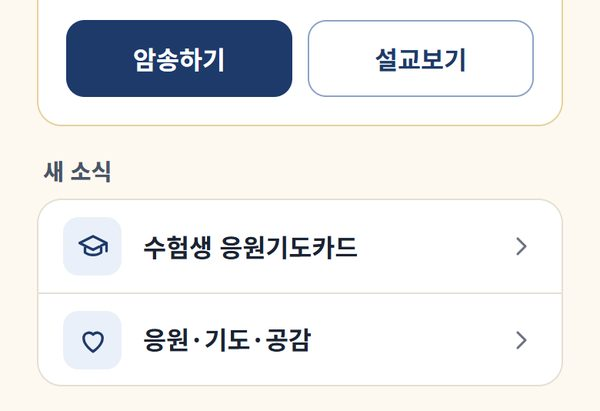
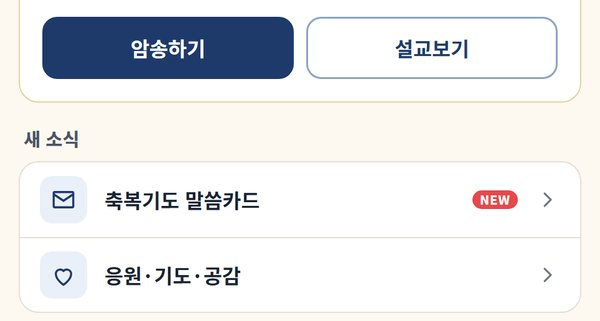
feat(카드): 「💌 축복기도 말씀카드」로 이름 · 첫 화면 「새 소식」 맨 위(🎓 자리)로 옮김 · 🎓 수험생 응원기도카드 단추 걷음(수험생 카드는 💌 판 카드 고르기에 12/11 까지 맨 앞) · 설명서 두 걸음 · 보내는 법 쪽 1번 걸음과 사진 · 시험 · 문서 · v3.731(친구 2026-11-10)

diff --git a/app.js b/app.js
@@ -6,7 +6,7 @@
 
 // 이 파일의 빌드 번호 — index.html의 app.js?v= 와 반드시 같아야 한다.
 // (tools/bump.py가 둘을 함께 올린다)
-const APP_BUILD = "20261109a";
+const APP_BUILD = "20261110a";
 
 // 배포 직후 CDN이 아직 옛 app.js를 내보내면, 브라우저는 그 옛 내용을 '새 주소'
 // 아래 캐시해 버린다. 주소가 다시 바뀌기 전까지(최대 10분) 옛 화면이 남는 이유다.
@@ -944,7 +944,7 @@ const HA_GROUPS = [
   { title: "말씀 묵상", ids: ["open-sermon-chat", "open-meditation"] },
   { title: "내 기록", ids: ["open-event-list", "open-album", "open-ranking"] },
   { title: "교회 생활", ids: ["open-ministry", "open-ministry-history", "open-edu", "open-duty"] },
-  { title: "함께", ids: ["open-board", "open-prayer", "open-cards", "open-pilsa"] },   // 💌 말씀카드는 가정 축복 기도문 바로 아래(2026-11-07 · 문 cardMoreVisible)
+  { title: "함께", ids: ["open-board", "open-prayer", "open-pilsa"] },   // 💌 축복기도 말씀카드는 2026-11-10 「새 소식」 맨 위로 옮겼다(HA_NEWS · 친구)
   // 📚 암송 과정 — 「함께」 바로 아래(친구 2026-10-29 · 10-13 에는 「함께」 위였다) · 외우는 것 넷을 이 차례로(쉴만한 물가·내 안에 거하는 말씀·퀴즈는 「함께」에서 옮김).
   //   단추마다 문이 따로라(psalmVisible · passagesVisible · naviVisible) 닫힌 단추는 줄째 빠진다 · 설명서의 자리 말(MANUAL)도 이 묶음을 가리킨다.
   { title: "암송 과정", ids: ["open-psalm", "open-passages", "open-navi", "open-quiz"] },
@@ -960,9 +960,9 @@ function boardTopOn(raw) {
   if (!p) return false;
   return p.y + "-" + String(p.m).padStart(2, "0") + "-" + String(p.d).padStart(2, "0") <= BOARD_TOP_UNTIL;
 }
-// 「새 소식」 맨 위 줄(2026-11-07 친구) — 🎓 수험생 응원기도카드(단추는 문 · 기간 안에만 그린다 — cardSuneungOn) · 그 아래 한 주간 💬 게시판.
-//   단추가 하나도 없으면 묶음째 없다(applyHomeA 가 단추 없는 묶음을 건너뛴다) — 11/13 부터는 카드 한 줄뿐 · 12/12 부터(또는 문 밖)는 묶음째 없다.
-const HA_NEWS = ["open-card-suneung"];
+// 「새 소식」 맨 위 줄 — 💌 축복기도 말씀카드(2026-11-10 친구 「수험생 응원기도카드 자리로 · 수험생 단추는 없애기」 · 문 cardMoreVisible) · 그 아래 한 주간 💬 게시판.
+//   🎓 수험생 카드는 따로 단추 없이 💌 판 맨 위 카드 고르기에서 고른다(12/11 까지 맨 앞 · cardSuneungOn). 단추가 하나도 없으면 묶음째 없다(applyHomeA 가 단추 없는 묶음을 건너뛴다).
+const HA_NEWS = ["open-cards"];
 function haGroupsFor(raw) {
   if (!boardTopOn(raw)) return [{ title: "새 소식", ids: HA_NEWS }].concat(HA_GROUPS);
   return [{ title: "새 소식", ids: HA_NEWS.concat(["open-board"]) }]
@@ -971,7 +971,7 @@ function haGroupsFor(raw) {
 const HA_ROW_ICON = {
   "open-sermon-chat": "message", "open-meditation": "leaf", "open-navi": "book", "open-event-list": "medal", "open-album": "album", "open-ranking": "trophy",
   "open-ministry": "users", "open-ministry-history": "folder", "open-edu": "cap", "open-duty": "calendar",
-  "open-card-suneung": "cap", "open-board": "heart", "open-prayer": "house", "open-cards": "mail", "open-psalm": "drop", "open-passages": "scroll", "open-pilsa": "pen", "open-quiz": "target",
+  "open-board": "heart", "open-prayer": "house", "open-cards": "mail", "open-psalm": "drop", "open-passages": "scroll", "open-pilsa": "pen", "open-quiz": "target",
   "open-praise": "music", "open-sermon-archive": "tv", "open-youtube": "play",
 };
 const HA_TOOL_ICON = { "toggle-ref-first": "bookmark", "toggle-card-input": "keyboard", "open-help-summary": "help", "open-alarm": "bell", "open-settings": "gear" };
@@ -3850,13 +3850,12 @@ function renderSummary() {
     ${naviVisible() ? `<div class="grp-title">암송 과정</div>
     <button class="summary-help" id="open-navi">📚 주제별 성경암송${newBadge("navi")}</button>` : ""}
     <div class="grp-title">함께</div>
-    ${/* 🎓 수험생 응원기도카드(2026-11-07) — 문(cardShareVisible · 🧪 시험 참여자 먼저) · 기간(CARD_SUNEUNG_UNTIL) 안에만. A안은 「새 소식」 맨 위로 옮겨 담는다(HA_NEWS) */""}
-    ${cardSuneungOn() ? `<button class="summary-help" id="open-card-suneung">🎓 수험생 응원기도카드</button>` : ""}
+    ${/* 💌 축복기도 말씀카드(2026-11-07 · 11-10 친구 — 🎓 수험생 응원기도카드 자리로 옮기고 🎓 단추는 걷음) — 문(cardMoreVisible · 🧪 시험 참여자 먼저) 안에만.
+          판은 js/pray-share.js openCardPick(맨 위에서 카드 고르기 · 🎓 수험생은 12/11 까지 맨 앞). A안은 「새 소식」 맨 위로 옮겨 담는다(HA_NEWS) */""}
+    ${cardMoreVisible() ? `<button class="summary-help" id="open-cards">💌 축복기도 말씀카드${newBadge("cards")}</button>` : ""}
     <button class="summary-help" id="open-board">💬 응원·기도·공감</button>
     ${/* 2026-09-25 순서 바꿈(친구 요청) — 가정 축복 기도문이 쉴만한 물가보다 위. */""}
     <button class="summary-help" id="open-prayer">🙏 가정 축복 기도문${newBadge("prayer")}</button>
-    ${/* 💌 말씀카드(2026-11-07 친구 「늘 쓰는 축하, 위로만 먼저」) — 문(cardMoreVisible · 🧪 시험 참여자 먼저) 안에만. 판은 js/pray-share.js openCardPick(맨 위에서 카드 고르기) */""}
-    ${cardMoreVisible() ? `<button class="summary-help" id="open-cards">💌 기도 말씀카드${newBadge("cards")}</button>` : ""}
     ${psalmVisible() ? `<button class="summary-help" id="open-psalm">🐑 쉴만한 물가${newBadge("psalm")}</button>` : ""}
     ${/* ⚠ 2026-09-23 첫 화면 단추를 뺀다(성도님 결정) — 「🎵 찬양 · 곡명 ↗」은
           **매일 묵상 창 맨 아래 줄**에만 둔다. 게이트(app_config.songPublic)는 켜진 채라
@@ -3907,13 +3906,7 @@ function renderSummary() {
   renderStoreNudge();   // 웹으로 오신 분께 스토어 앱 안내 한 줄(2026-10-09)
   loadEventState();     // 서버에서 설정·응모여부 갱신 후 다시 표시
   document.getElementById("open-board").addEventListener("click", renderBoard);
-  // 🎓 수험생 응원기도카드 — 판은 누를 때 받는다(js/pray-share.js) · 두 번 눌러도 판은 하나(openCardShare 가 열린 판을 그대로 둔다)
-  { const b = document.getElementById("open-card-suneung");   // 문 · 기간 밖에는 없다
-    if (b) b.addEventListener("click", () => withLazyJs("prayShare", () => {
-      if (typeof openCardShare === "function") openCardShare("suneung");
-      else appAlert(typeof openPrayShare === "function" ? "앱이 새 판으로 바뀌었어요. 앱을 껐다가 다시 열어 주세요." : "보내기 화면을 아직 못 불러왔어요. 잠시 뒤 다시 눌러 주세요.");
-    })); }
-  // 💌 말씀카드 — 판은 누를 때 받는다(js/pray-share.js) · 맨 위에서 카드를 고른다(openCardPick · 수험생 카드는 기간 안에만 맨 앞) · 두 번 눌러도 판은 하나
+  // 💌 축복기도 말씀카드 — 판은 누를 때 받는다(js/pray-share.js) · 맨 위에서 카드를 고른다(openCardPick · 수험생 카드는 기간 안에만 맨 앞) · 두 번 눌러도 판은 하나
   { const b = document.getElementById("open-cards");   // 문(cardMoreVisible) 밖에는 없다
     if (b) b.addEventListener("click", () => { markFeatSeen("cards"); scRemoveBadge("open-cards"); withLazyJs("prayShare", () => {
       if (typeof openCardPick === "function") openCardPick(cardSuneungOn());
@@ -4172,13 +4165,13 @@ function medShareVisible() { return MED_SHARE_OPEN || (typeof ministryTesterCach
 const VERSE_SHARE_OPEN = true;   // 2026-11-06 모두에게 열었다(친구 「올려주세요」 — 게시판 공지 「가족·목장 식구를 초대해 주세요」와 함께 · 설명서 말씀 암송 장에 한 줄) · 닫으려면 false 한 줄 + bump
 function verseShareVisible() { return VERSE_SHARE_OPEN || (typeof ministryTesterCached === "function" && ministryTesterCached()); }
 // 🎓 수험생 응원기도카드(2026-11-07 친구 · 기념일 말씀카드 첫 개시 — 수능 11/19 · 성적 통지 12/11 · 판은 js/pray-share.js openCardShare) — 먼저 🧪 시험 참여자에게만.
-//   첫 화면 「새 소식」 맨 위 한 줄(haGroupsFor · HA_NEWS) · CARD_SUNEUNG_UNTIL(KST · 그날까지)이 지나면 배포 없이 저절로 없어진다.
+//   2026-11-10 친구 — 첫 화면 🎓 단추는 걷었다(💌 축복기도 말씀카드가 그 자리로) · 이제 💌 판 맨 위 카드 고르기에서만(cardSuneungOn 일 때 맨 앞) · CARD_SUNEUNG_UNTIL(KST · 그날까지)이 지나면 배포 없이 저절로 없어진다.
 //   ⚠ 새 이름은 옛 파일에 없던 것으로 — 다른 파일에 같은 이름의 const 가 있으면 배포 직후 CDN 옛 파일과 「이미 선언됨」으로 깨진다(prayer-book.md)
 const CARD_SHARE_OPEN = true;   // 2026-11-07 모두에게 열었다(친구 「모두 열어 주세요」 — 게시판 공지와 함께 · 설명서 「가정 축복 기도문」 장에 한 걸음) · 닫으려면 false 한 줄 + bump
 function cardShareVisible() { return CARD_SHARE_OPEN || (typeof ministryTesterCached === "function" && ministryTesterCached()); }
 const CARD_SUNEUNG_UNTIL = "2026-12-11";
 function cardSuneungOn() { return cardShareVisible() && todayYmd() <= CARD_SUNEUNG_UNTIL; }
-// 💌 말씀카드(2026-11-07 친구 「늘 쓰는 축하, 위로만 먼저」 — 생일 · 결혼기념일 · 새 출발 · 위로 · 병문안 · 날짜를 타지 않는다) — 첫 화면 「함께」 한 줄(가정 축복 기도문 아래) ·
+// 💌 축복기도 말씀카드(2026-11-07 친구 「늘 쓰는 축하, 위로만 먼저」 — 생일 · 결혼기념일 · 새 출발 · 위로 · 병문안 · 날짜를 타지 않는다) — 첫 화면 「새 소식」 맨 위 한 줄(2026-11-10 · 처음엔 「함께」 가정 축복 기도문 아래) ·
 //   판 맨 위에서 카드를 고른다(js/pray-share.js openCardPick · 🎓 수험생 카드는 cardSuneungOn() 일 때만 맨 앞) · 설명서 「가정 축복 기도문」 장에 한 걸음.
 //   ⚠ 이름은 옛 파일에 없던 것(CDN 옛 파일과 「이미 선언됨」 — prayer-book.md) · 모두에게 열 때는 true 한 줄 + bump(게시판 공지 = 문 열기).
 const CARD_MORE_OPEN = true;   // 2026-11-08 모두에게 열었다(친구 「모두 오픈해주세요」 · 11-07 은 🧪 시험 참여자 먼저) · 닫으려면 false 한 줄 + bump
@@ -10710,10 +10703,10 @@ const MANUAL = [
       "<b>🔊 들려주기</b>를 누르면 소리 내어 읽어 드려요.",
       "가족을 위해 기도하시려면 이름이 적힌 <b>🙍</b> 단추를 눌러 이름을 바꾸세요.",
       "기도문 아래 금색 <b>카톡·문자로 보내기</b>를 누르면, 이름을 넣은 기도문을 <b>그림 한 장</b>으로 카카오톡이나 문자로 보낼 수 있어요.",
-      // 🎓 수험생 응원기도카드가 보이는 동안만(12/11 까지 · cardSuneungOn — 지난 메뉴를 가리키지 않게)
-      ...(cardSuneungOn() ? ["수능을 앞둔 학생에게는 첫 화면 <b>「새 소식」</b> 맨 위 <b>🎓 수험생 응원기도카드</b>로, 이름을 넣은 응원 기도를 <b>그림 한 장</b>으로 보낼 수 있어요(12월 11일까지)."] : []),
-      // 💌 말씀카드가 보이는 동안만(cardMoreVisible — 🧪 시험 참여자 먼저 · 모두에게 열면 그대로)
-      ...(cardMoreVisible() ? ["첫 화면 <b>「함께」</b>의 <b>💌 기도 말씀카드</b>에서 생일 · 결혼기념일 · 새 출발 · 위로 · 병문안 카드를 이름을 넣어 <b>그림 한 장</b>으로 보낼 수 있어요."] : []),
+      // 💌 축복기도 말씀카드가 보이는 동안만(cardMoreVisible — 🧪 시험 참여자 먼저 · 모두에게 열면 그대로) · 자리는 첫 화면 꼴로(A안 「새 소식」 맨 위 · 옛 첫 화면 「함께」 맨 위)
+      ...(cardMoreVisible() ? [(HOME_LAYOUT === "a" ? "첫 화면 <b>「새 소식」</b> 맨 위" : "첫 화면 <b>「함께」</b> 맨 위") + "의 <b>💌 축복기도 말씀카드</b>에서 생일 · 결혼기념일 · 새 출발 · 위로 · 병문안 카드를 이름을 넣어 <b>그림 한 장</b>으로 보낼 수 있어요."] : []),
+      // 🎓 수험생 카드는 💌 판 안에서만(12/11 까지 · cardSuneungOn — 지난 카드를 가리키지 않게 · 💌 가 닫혀 있으면 들어갈 길이 없다)
+      ...(cardMoreVisible() && cardSuneungOn() ? ["수능을 앞둔 학생에게는 <b>💌 축복기도 말씀카드</b> 맨 위 카드 고르기의 <b>🎓 수험생</b>으로, 이름을 넣은 응원 기도를 <b>그림 한 장</b>으로 보낼 수 있어요(12월 11일까지)."] : []),
       "아래 <b>주제로 찾기</b>에서 다른 기도문도 고를 수 있어요.",
       ];
     },

diff --git a/index.html b/index.html
@@ -69,7 +69,7 @@
   <link rel="preconnect" href="https://fonts.gstatic.com" crossorigin />
   <link href="https://fonts.googleapis.com/css2?family=Gowun+Batang:wght@400;700&family=Lora:wght@400;600;700&family=Nanum+Myeongjo:wght@400;700;800&family=Noto+Sans+KR:wght@400;500;700;800&display=swap" rel="stylesheet" media="print" onload="this.media='all'" />
   <noscript><link href="https://fonts.googleapis.com/css2?family=Gowun+Batang:wght@400;700&family=Lora:wght@400;600;700&family=Nanum+Myeongjo:wght@400;700;800&family=Noto+Sans+KR:wght@400;500;700;800&display=swap" rel="stylesheet" /></noscript>
-  <link rel="stylesheet" href="style.css?v=20261109a" />
+  <link rel="stylesheet" href="style.css?v=20261110a" />
 </head>
 <body>
   <!-- 앱 시작 스플래시 화면 -->
@@ -78,7 +78,7 @@
       <img id="splash-logo" src="img/logo-gocheok.png" alt="고척교회" />
       <div class="splash-title">오직 성경, 말씀이 답이다!</div>
       <div class="splash-sub">주의 말씀은 내 발에 등이요<br>내 길에 빛이니이다</div>
-      <div class="splash-ver">v3.730</div>
+      <div class="splash-ver">v3.731</div>
       <img class="splash-denom" src="logo3.png?v=20260702y" alt="대한예수교장로회총회" onerror="this.style.display='none'" />
     </div>
   </div>
@@ -109,11 +109,11 @@
     <p style="text-align:center;padding:40px">불러오는 중...</p>
   </main>
 
-  <script src="js/config.js?v=20261109a"></script>
-  <script src="js/api.js?v=20261109a"></script>
-  <script src="js/push.js?v=20261109a"></script>
-  <script src="js/psalm.js?v=20261109a"></script>
-  <script src="js/events.js?v=20261109a"></script>
-  <script src="app.js?v=20261109a"></script>
+  <script src="js/config.js?v=20261110a"></script>
+  <script src="js/api.js?v=20261110a"></script>
+  <script src="js/push.js?v=20261110a"></script>
+  <script src="js/psalm.js?v=20261110a"></script>
+  <script src="js/events.js?v=20261110a"></script>
+  <script src="app.js?v=20261110a"></script>
 </body>
 </html>

diff --git a/admin.html b/admin.html
@@ -74,7 +74,7 @@
     // 교회 어드민으로 옮긴 관리 화면은 여기서 걷었다 — 성도 정보(2026-10-09) · 이벤트 · 찬양 아카이브 · 내게 주시는 말씀 기록 · 사역관리(2026-10-13).
     //   남은 것(성경암송 관리 · 설교·찬양 관리)은 설교 실전 확인 뒤 마지막 걷기에(docs/notes/admin-migration.md).
     //   ⚠ 교회 어드민(admin.onlybible.kr)으로 가는 타일은 두지 않는다(2026-10-13 친구 — 그곳은 주소로 직접 들어간다).
-    { ic:"📖", title:"성경암송 관리", desc:"통계 · 알림발송 · 주간리포트 · 게시판", href:"admin-stats.html?v=20261109a" },
+    { ic:"📖", title:"성경암송 관리", desc:"통계 · 알림발송 · 주간리포트 · 게시판", href:"admin-stats.html?v=20261110a" },
     { ic:"⛪", title:"설교·찬양 관리", desc:"설교 올리기(두 단계) · 설교 목록 · 매일 묵상 · 담당자 — 담당자도 이 주소로", href:"admin-sermon.html" },
     { ic:"🎬", title:"환영 인트로 미리보기", desc:"첫 방문 인트로 4장 — 성도님 화면엔 영향 없음", href:"index.html?preview=intro" },
     { ic:"🙏", title:"축복 인사 미리보기", desc:"첫 로그인 축복 카드 — 로그인 상태에서 확인", href:"index.html?preview=blessing" },

diff --git a/guide/suneung-card/index.html b/guide/suneung-card/index.html
@@ -41,8 +41,8 @@ h2{font-size:1.15rem;font-weight:800;color:var(--navy);margin:0 0 8px}
   </header>
 
   <div class="card">
-    <div class="step"><span class="no">1</span><p>첫 화면 「이번 주 말씀」 아래 <b>「새 소식」</b> 맨 위의 <b>🎓 수험생 응원기도카드</b>를 눌러요.</p></div>
-    <div class="shot"><img src="home.jpg" alt="첫 화면 「새 소식」 묶음 맨 위의 수험생 응원기도카드 줄" width="600" height="411" loading="lazy"></div>
+    <div class="step"><span class="no">1</span><p>첫 화면 「이번 주 말씀」 아래 <b>「새 소식」</b> 맨 위의 <b>💌 축복기도 말씀카드</b>를 누르고, 판 맨 위 카드 고르기에서 <b>🎓 수험생</b>을 골라요.</p></div>
+    <div class="shot"><img src="home.jpg" alt="첫 화면 「새 소식」 묶음 맨 위의 축복기도 말씀카드 줄" width="600" height="321" loading="lazy"></div>
   </div>
 
   <div class="card">

diff --git a/docs/notes/occasion-card.md b/docs/notes/occasion-card.md
@@ -58,8 +58,8 @@
 
 ## 💌 늘 쓰는 기념일 다섯(2026-11-07 밤 · 친구 「늘 쓰는 축하, 위로만 먼저 진행」 · 🧪 시험 참여자 먼저)
 - 🎂 생일(birthday · 11) · 💍 결혼기념일(wedding · 12) · 🌱 새 출발(newstart · 13) · 🕊 위로(comfort · 14) · 🙏 병문안(healing · 15) — 숫자는 이용 기록 종류 코드(서버 `SHARE_KINDS` 이름표 · 운영 api 배포는 친구가 돌린다 — 자동 권한 검사가 운영 배포를 막는다).
-- **들어가는 문:** 첫 화면 「함께」 가정 축복 기도문 바로 아래 「💌 기도 말씀카드」(2026-11-09 친구 — 「말씀카드」에서 이름을 바꿈 · 단추 글자와 설명서 한 걸음 · `open-cards` · 아이콘 mail · 옛 첫 화면에도) — 문 `CARD_MORE_OPEN`(false = 🧪) · `cardMoreVisible()` · 누르면 `openCardPick(cardSuneungOn())` → 판 맨 위 **카드 고르기**(수험생은 12/11 까지 맨 앞 · 처음은 앱을 쓰는 동안 마지막으로 고른 카드 · 없으면 생일).
-  카드를 바꾸면 **같은 판 안에서** 다시 그린다(`pshCardSwap` · 덮개 · history 가 늘지 않는다 — prayer-book.md 의 history.back 사고). 「새 소식」의 🎓 는 그대로 수험생 판을 바로 연다(고르기 칸 없이).
+- **들어가는 문:** 첫 화면 **「새 소식」 맨 위** 「💌 축복기도 말씀카드」(2026-11-10 친구 — 아래 「11-10 옮김」 · 처음엔 「함께」 가정 축복 기도문 바로 아래 「💌 말씀카드」 · 11-09 「기도 말씀카드」 · `open-cards` · 아이콘 mail · 옛 첫 화면에도) — 문 `CARD_MORE_OPEN`(false = 🧪) · `cardMoreVisible()` · 누르면 `openCardPick(cardSuneungOn())` → 판 맨 위 **카드 고르기**(수험생은 12/11 까지 맨 앞 · 처음은 앱을 쓰는 동안 마지막으로 고른 카드 · 없으면 생일).
+  카드를 바꾸면 **같은 판 안에서** 다시 그린다(`pshCardSwap` · 덮개 · history 가 늘지 않는다 — prayer-book.md 의 history.back 사고). ~~「새 소식」의 🎓 는 그대로 수험생 판을 바로 연다(고르기 칸 없이).~~ → 11-10 🎓 단추를 걷었다(아래).
   ⚠ 판이 열린 채 다른 카드 단추가 불리면 닫고 다시 열지 않는다(검토에서 찾음 — 💌 → 🎓 를 빠르게 누르면 판이 떴다가 사라졌다 · 시험).
 - **자료:** `CARD_SETS` 여섯(수험생 + 다섯 · 말씀 35) — 카드마다 label · icon · kind · nameLabel(결혼기념일만 「받는 부부」) · amen(위로 · 병문안은 「아멘.」) · defaultName · nameHint · photos 셋 · entries 다섯(묶음 · 날짜 없음).
   원고 `자료/card/occasions/` · 덩이 만들기 `자료/card/tools/build_cards.py`(기념일마다 그 기념일 시험 이름으로 원문 대조) · 권해 고른 대안: 생일 ③ 시 31:15 · 새 출발 ③ 시 37:23-24(나중 설날 · 새해와 겹침을 피함).
@@ -69,6 +69,14 @@
 - 그림 열다섯 `img/share/card-<카드>-1~3`(만든 말 · 버린 것은 `img/share/prompts.md` 끝 절).
 - **2026-11-08 모두에게 열림**(친구 「모두 오픈해주세요」 — 폰 확인 전 · 게시판 공지는 아직 없음) — `CARD_MORE_OPEN = true` · NEW 배지 `FEAT_SINCE.cards`(여는 날 · 14일 · 누르면 `markFeatSeen("cards")`) · 닫으려면 false 한 줄 + bump.
 - 카드를 바꿀 때도 share-open 을 세는 것은 친구 「그대로 두기」(11-08).
+
+## 11-10 옮김 — 「💌 축복기도 말씀카드」를 🎓 자리로 · 🎓 단추 걷음(친구 「기도 말씀카드 → 축복기도 말씀카드 · 수험생 응원기도카드 자리로 · 수험생 응원기도카드는 없애 주세요」)
+- A안: `HA_NEWS = ["open-cards"]` · 「함께」에서는 뺐다 · 한 주간(11/12 까지) 게시판은 그 아래. 옛 첫 화면(롤백용): 「함께」 맨 위(🎓 가 있던 자리).
+- 🎓 단추 · 배선 · 아이콘(`open-card-suneung`)은 걷었다. **수험생 카드는 남는다** — 💌 판 맨 위 카드 고르기에 12/11 까지 맨 앞(`openCardPick(cardSuneungOn())`). 판 함수 `openCardShare` 도 남긴다(배포 직후 CDN 옛 app.js 가 🎓 로 부른다).
+  처음 고른 카드는 그대로 「앱을 쓰는 동안 마지막으로 고른 카드 · 없으면 생일」 — 수험생을 먼저 띄우지는 않는다(친구가 바라면 바꿀 자리 · `openCardPick`).
+- 설명서 「가정 축복 기도문」 장: 💌 걸음(자리는 첫 화면 꼴로 갈라 씀) → 🎓 걸음(💌 판 안에서 · 둘 다 참일 때만).
+- 보내는 법 쪽 `guide/suneung-card/` 1번 걸음 · 사진 `home.jpg`(가짜 자료 홍길동 · `tools/capture-guide-shots.py` 의 home 을 2배로 찍어 「새 소식」만 자름). 게시판 공지 #63 글은 그대로(링크가 이 쪽을 가리킨다).
+  ⚠ `capture-guide-shots.py` 는 **불러오기만 해도 main() 이 돈다**(파일 끝 맨 줄) — 다른 스크립트에서 import 하면 `guide/shots/` 를 통째로 다시 찍는다. 11-10 에 그래서 덮어썼다가 `git checkout` 으로 되돌렸다.
 
 ## 다음(친구 11/07 「오늘 배포 끝나면 생일 · 졸업 · 크리스마스 등 전체」)
 - 늘 쓰는 것: 생일 · 결혼기념일 · 새 출발(입학 · 졸업 · 취업) · 위로 · 병문안 · **시험·취업 준비(이 카드)** / 철마다: 성탄 · 새해 · 설날 · 부활절 · 어린이날 · 어버이날 · 스승의 날 · 맥추 · 추석 · 추수감사.

diff --git a/CLAUDE.md b/CLAUDE.md
@@ -24,7 +24,7 @@
 | 매일 묵상(무엇을 보여 줄지) · **📤 카톡·문자로 보내기**(2026-11-04 **모두에게 열림** · 문 `MED_SHARE_OPEN`(app.js) · 판은 기도문과 같은 `js/pray-share.js` `openMedShare`) | `docs/notes/meditation.md` · `docs/notes/prayer-book.md` 끝 「🌿 오늘의 묵상도 보내기」 |
 | 가정 축복 기도문 · **📤 카톡·문자로 보내기**(2026-11-04 **모두에게 열림** · 문 `PRAY_SHARE_OPEN`(app.js — 「🙏 오늘의 기도」 창도 본다 · ⚠ 옛 이름 `PRAY_SHARE_PUBLIC` 으로 되돌리지 말 것) · `js/pray-share.js` 지연 · ⚠ 공유는 미리 만든 Blob 으로) | `docs/notes/prayer-book.md` 끝 「2026-11 보내기」 |
 | 첫 화면·묶음·색·아래 고정 단추 · **📤 「이번 주 말씀」 오른쪽 위 보내기 아이콘**(2026-11-05 · **2026-11-06 모두에게 열림 v3.719** · 문 `VERSE_SHARE_OPEN` · 말씀 액자 다섯 · **「카카오톡으로 보내기」 = 카카오 SDK 한 통에 그림 + 「말씀 외워 보기」 단추**(키 `js/config.js` `PROD.KAKAO` · 개인정보 세 자리에 카카오 줄 · 카드 단추는 `routeKakaoCard` — 아이폰 설치 안내 · 안드로이드 깔린 앱 · 카톡 창 닫기) · ⚠ 액자 가운데는 그림자 빼고 테두리로 잰다) · **💬 응원·기도·공감 한 주간 맨 위(11/6~12 · 「새 소식」 · `BOARD_TOP_UNTIL` — 11/13 저절로 「함께」 · 그 뒤 걷기)** | `docs/notes/home-screen.md` · `docs/notes/prayer-book.md` 끝 「📖 이번 주 말씀도 보내기」 |
-| 🎓 **기념일 말씀카드 · 수험생 응원기도카드**(2026-11-07 **모두에게 열림** · 문 `CARD_SHARE_OPEN`(닫으려면 false) · 보내는 법 `guide/suneung-card/` · 첫 화면 「새 소식」 맨 위 · 12/11 까지 · 말씀 10 · 그림 5 · 기도문/응원 글 · 그림 밖/안 · 받는 사람마다 ✓(이 폰에만) · ⚠ 이용 기록 종류 **10**(4~9 는 다른 보내기) · 자료 덩이 `// ⟪card-data⟫` 는 통째로 갈아 끼운다) · **💌 말씀카드 — 늘 쓰는 다섯**(생일 · 결혼기념일 · 새 출발 · 위로 · 병문안 · **2026-11-08 모두에게 열림** · 문 `CARD_MORE_OPEN`(닫으려면 false) · NEW 배지 `cards` · 「함께」 · 종류 11~15) · 다음: 철마다 기념일 열 | `docs/notes/occasion-card.md` |
+| 🎓 **기념일 말씀카드 · 수험생 응원기도카드**(2026-11-07 **모두에게 열림** · 문 `CARD_SHARE_OPEN`(닫으려면 false) · 보내는 법 `guide/suneung-card/` · **11-10 첫 화면 🎓 단추 걷음 — 💌 판 맨 위 카드 고르기에서만**(12/11 까지 맨 앞) · 말씀 10 · 그림 5 · 기도문/응원 글 · 그림 밖/안 · 받는 사람마다 ✓(이 폰에만) · ⚠ 이용 기록 종류 **10**(4~9 는 다른 보내기) · 자료 덩이 `// ⟪card-data⟫` 는 통째로 갈아 끼운다) · **💌 축복기도 말씀카드 — 늘 쓰는 다섯**(11-10 이름 · 첫 화면 「새 소식」 맨 위 `HA_NEWS` — 🎓 가 있던 자리 · 생일 · 결혼기념일 · 새 출발 · 위로 · 병문안 · **2026-11-08 모두에게 열림** · 문 `CARD_MORE_OPEN`(닫으려면 false) · NEW 배지 `cards` · 「함께」 · 종류 11~15) · 다음: 철마다 기념일 열 | `docs/notes/occasion-card.md` |
 | 게시판 글·답글·사진 | `docs/notes/board.md` |
 | 구글 출시 심사 전 고친 것(2026-10-01) — 어린 부서 **보호자 확인** · 게시판 **이용 규칙**·**🙈 가리기** · AI **답 알리기** · 방침의 유튜브 문구 | `docs/notes/store-review.md` · 결정 근거 `자료/store/README.md` 「구글 출시 심사 전 결정」 |
 | 앨범 이어 듣기·TTS | `docs/notes/album-audio.md` |
